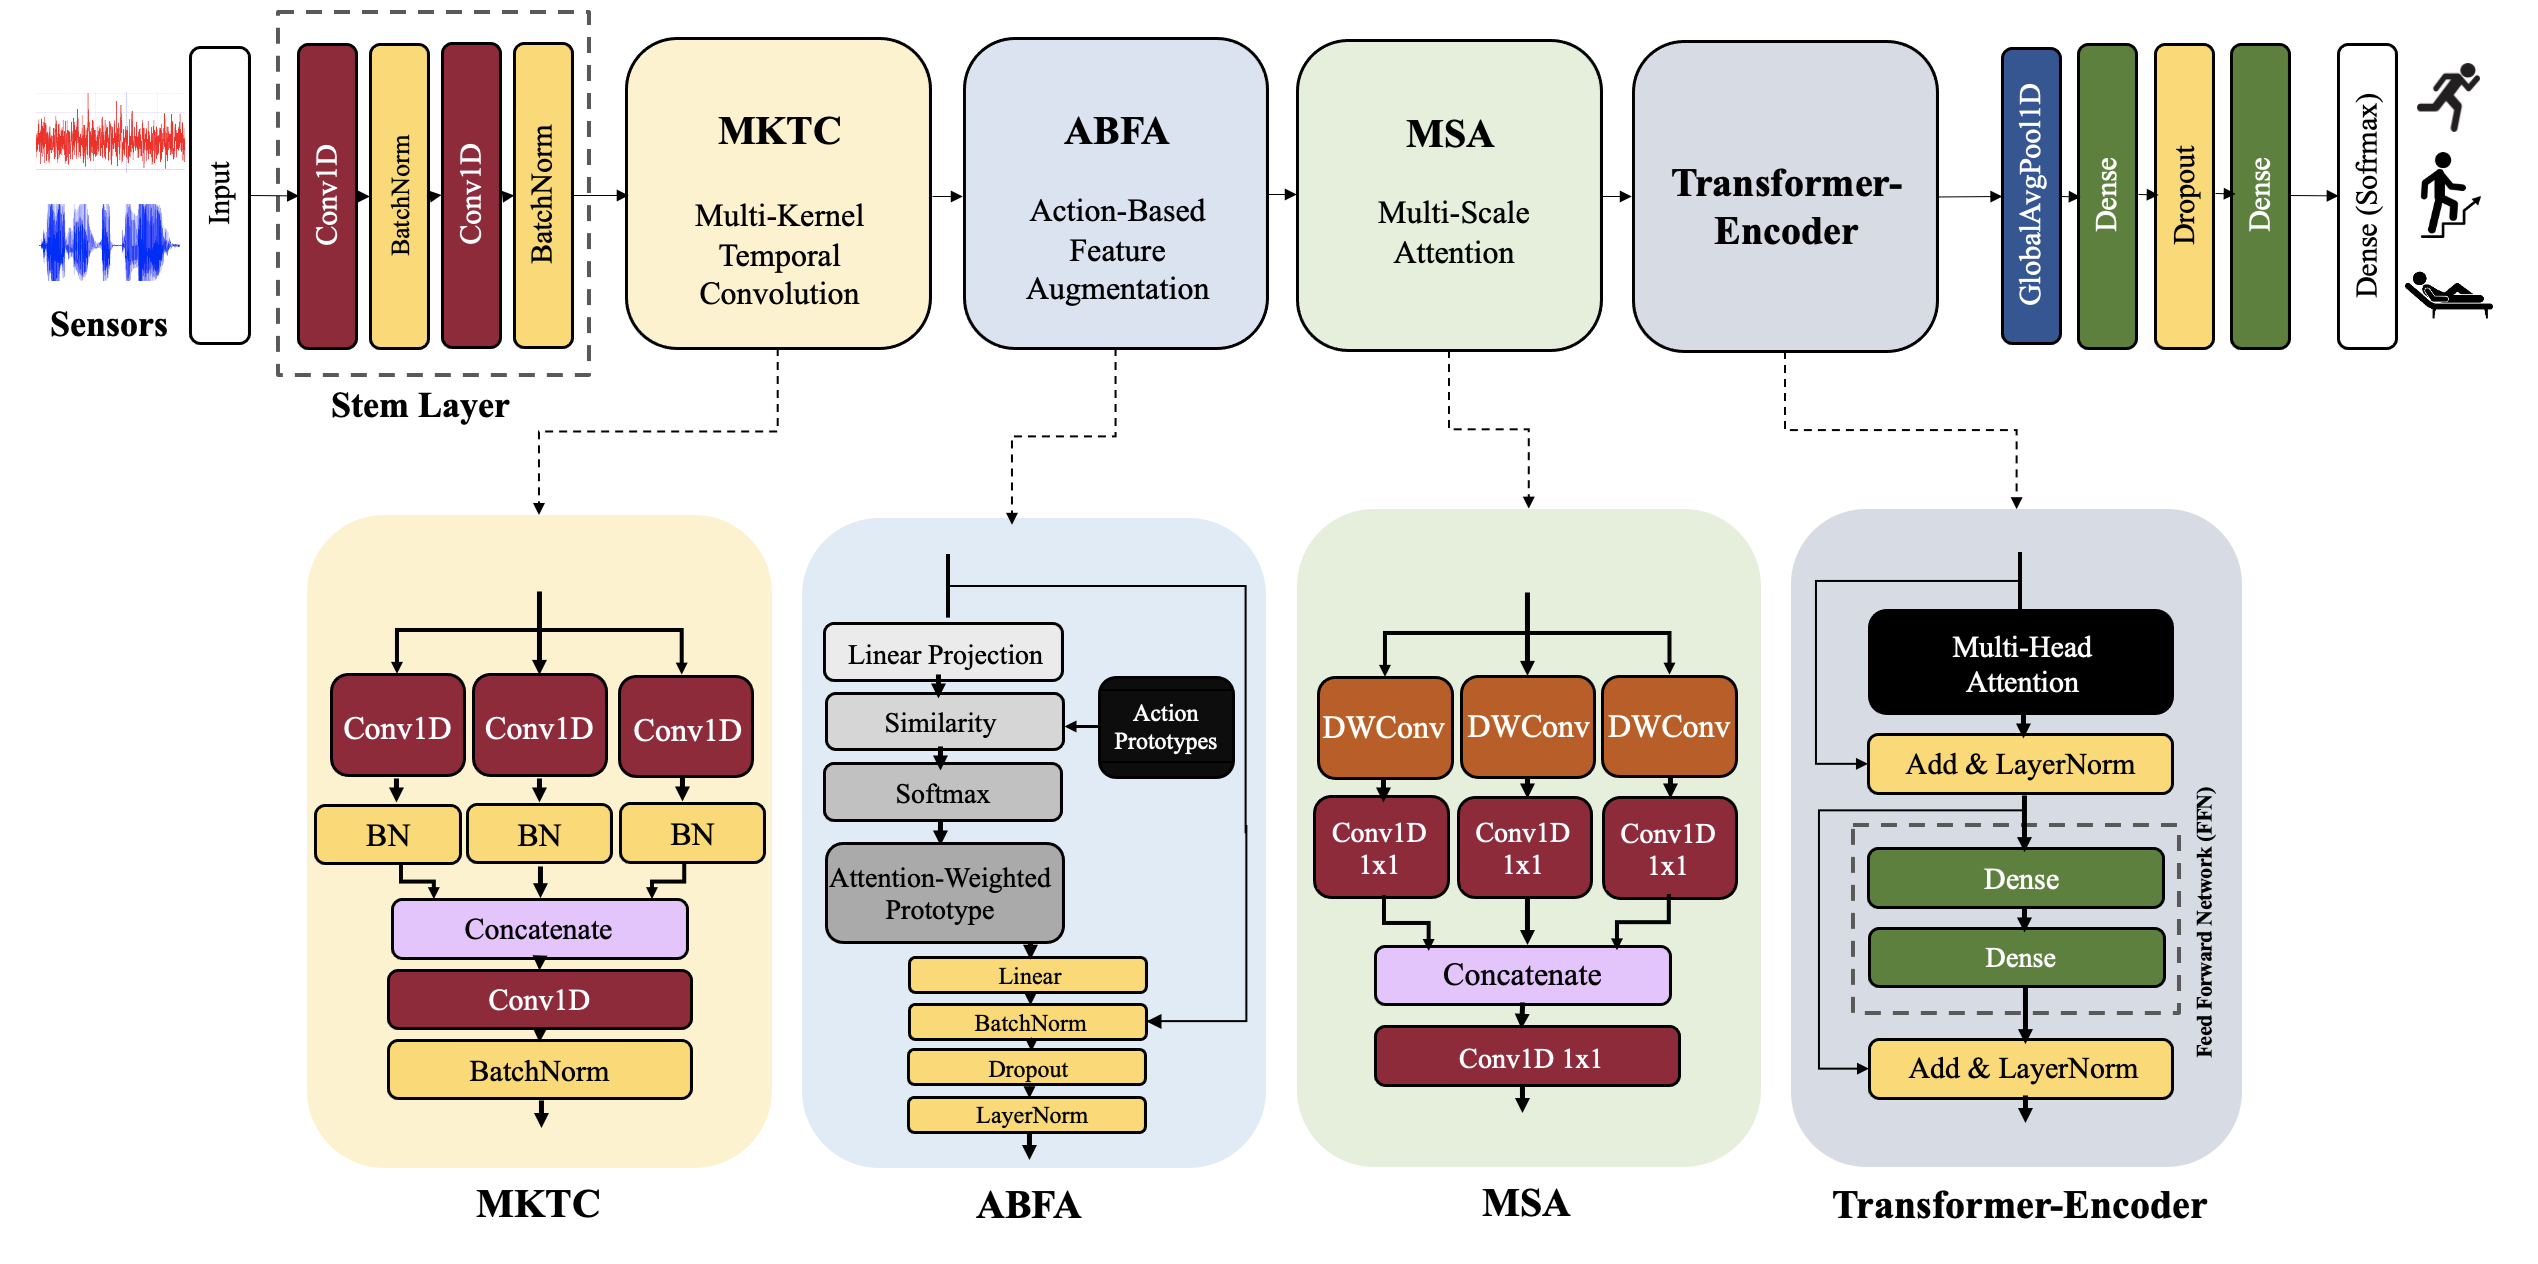
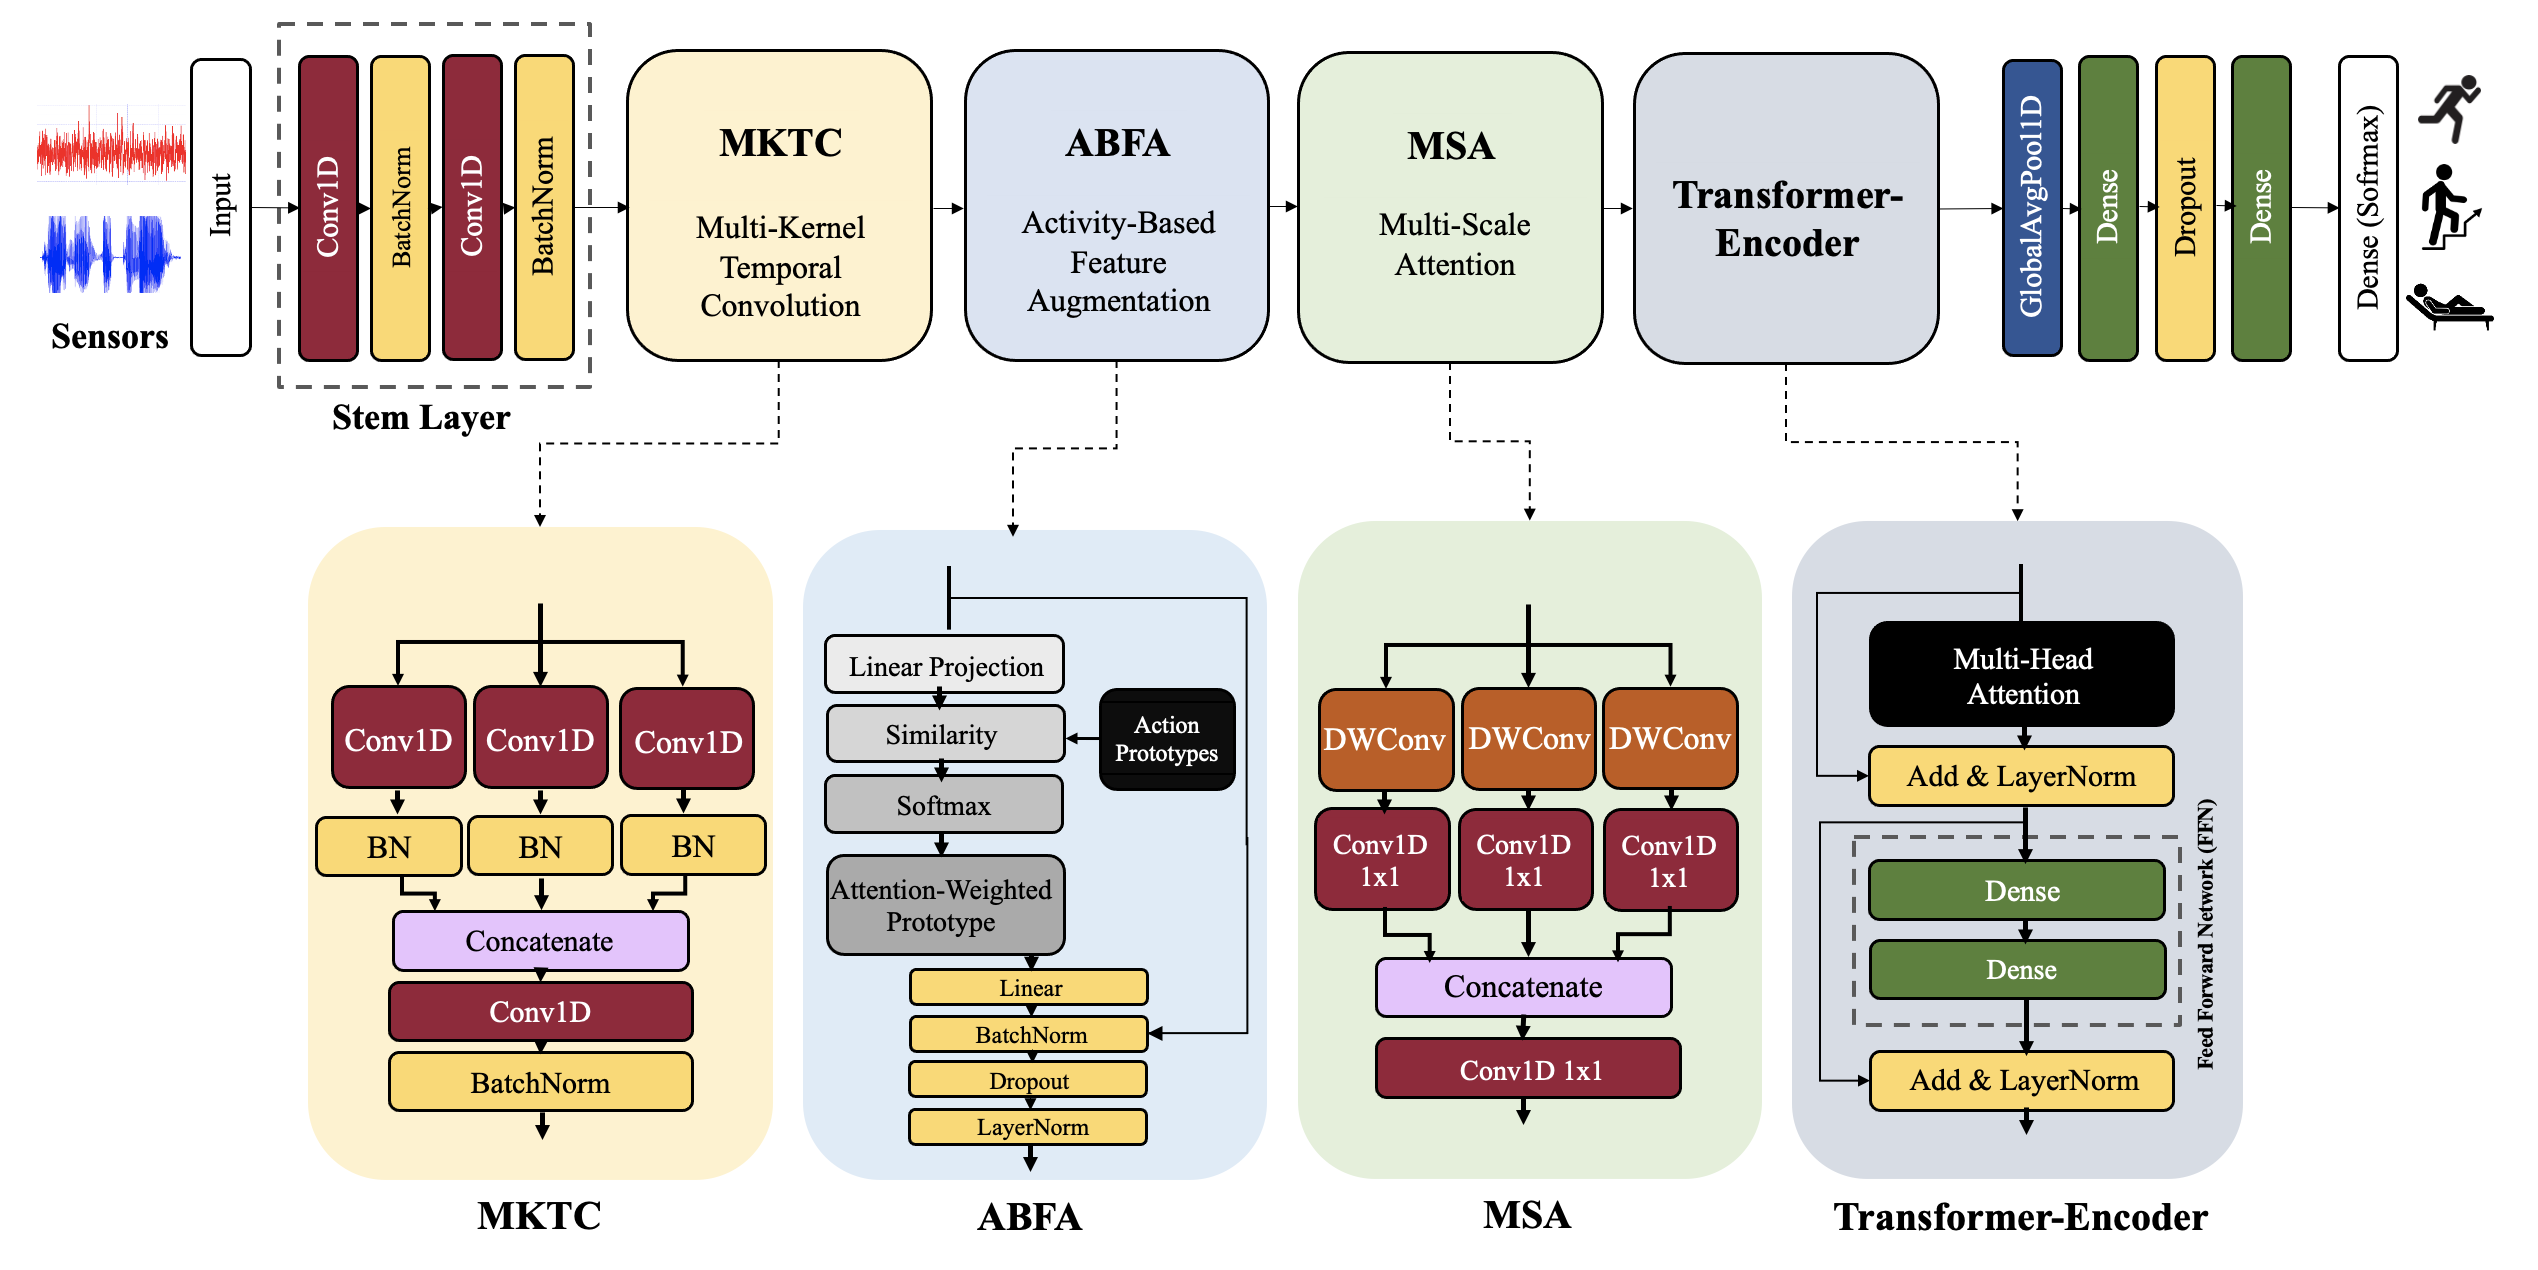
action -> activity

diff --git a/README.md b/README.md
@@ -1,11 +1,12 @@
 # ABFA-HAR
-**(paper source) Action-Prototype Guided Temporal Modeling for Human Activity Recognition (https://github.com/lky473736/ABFA-HAR.git)**
+**(paper source) Activity-Based Feature Augmentation with Multi-Kernel Temporal
+Convolution and Transformer for Human Activity Recognition (https://github.com/lky473736/ABFA-HAR.git)**
 
 
 
 <p align="center"><img src='./model_architecture.png'></p>
 
-This repository implements the methodology proposed in the paper "Action-Prototype Guided Temporal Modeling for Human Activity Recognition".
+This repository implements the methodology proposed in the paper "Activity-Based Feature Augmentation with Multi-Kernel Temporal Convolution and Transformer for Human Activity Recognition".
 
 ## Datasets
 
@@ -73,7 +74,8 @@ If you use this code in your research, please cite:
 
 ```
 @article{lim2025ABFA,
-  title={Action-Prototype Guided Temporal Modeling for Human Activity Recognition},
+  title={Activity-Based Feature Augmentation with Multi-Kernel Temporal
+Convolution and Transformer for Human Activity Recognition},
   author={Gyuyeon Lim and Myung-Kyu Yi}
   journal={},
   volume={},
